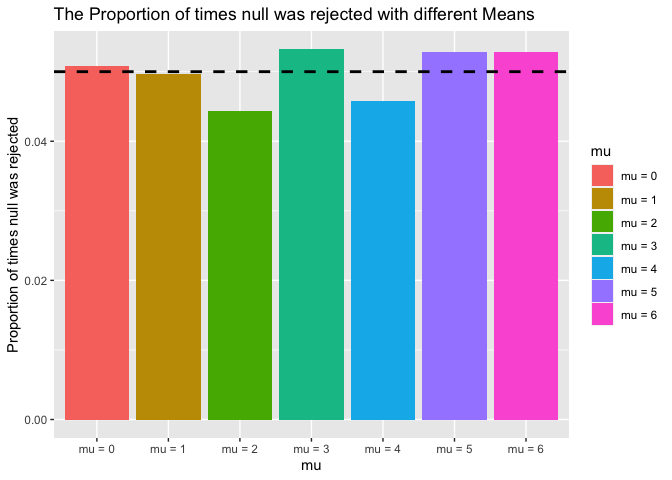
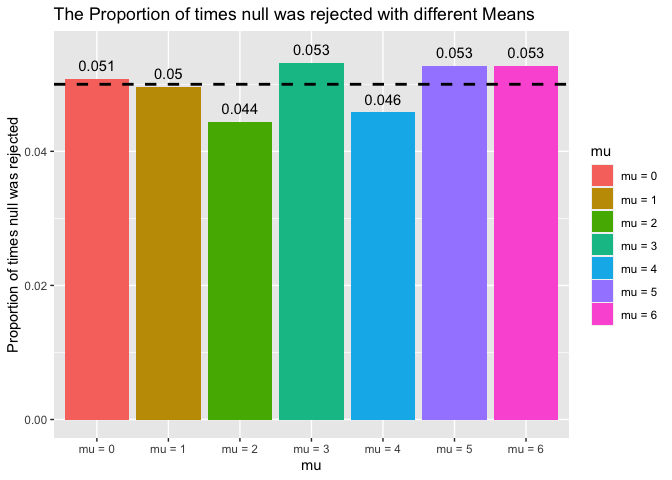
commenting code for question 3

diff --git a/p8105_hw5_ajp2257.md b/p8105_hw5_ajp2257.md
@@ -150,17 +150,18 @@ axis. Describe the association between effect size and power.
 
 ``` r
 sim_results %>% 
-   mutate(
+   mutate( # updating the mu variable to have it plot in a nice way 
     mu = str_c("mu = ", mu),
     mu = fct_inorder(mu),
-    reject_status = ifelse(p.value > alpha, 0, 1) # reject null = 1
+    reject_status = ifelse(p.value > alpha, 0, 1) # reject null = 1 based on alpha 
     ) %>% 
-  group_by(mu) %>%
+  group_by(mu) %>% # group by mu to count how many times we reject based on alpha 
   count(reject_status) %>%
-  filter(reject_status == 1) %>% 
-   ggplot(aes(x = mu, y = n/5000)) + 
+  filter(reject_status == 1) %>% # filter just the reject null (when = 1)
+   ggplot(aes(x = mu, y = n/5000)) + # I am dividing by 5000 to get the proportion 
     geom_col(aes(fill=mu)) +
     geom_hline(yintercept=0.05, linetype="dashed", size=1) +
+    geom_text(aes(label=round(n/5000, 3)), position = position_nudge(y = 0.002)) + 
     labs(
       title = "The Proportion of times null was rejected with different Means",
       y = "Proportion of times null was rejected"
@@ -170,50 +171,61 @@ sim_results %>%
 ![](p8105_hw5_ajp2257_files/figure-gfm/unnamed-chunk-5-1.png)<!-- -->
 
 Make a plot showing the average estimate of \(\hat{\mu}\) on the y axis
-and the true value of μ on the x axis.
+and the true value of μ on the x axis. Make a second plot (or overlay on
+the first) the average estimate of \(\hat{\mu}\)  on the y axis and the
+true value of \(\mu\) on the x axis.
 
 ``` r
-sim_results %>% 
-   mutate(
-    mu = str_c("mu = ", mu),
+# average estimates against the true mu value graph 
+mean_values = sim_results %>% 
+   mutate( # Changing the mu variable to make it better to graph 
+    mu = str_c("mu = ", mu), 
     mu = fct_inorder(mu),
     ) %>% 
-  group_by(mu) %>%
-  summarize(mean_est = mean(estimate)) %>%
+  group_by(mu) %>% # want to group the means by the mu values 
+  summarize(mean_est = mean(estimate)) %>% # getting the mean 
+    # now we are plotting 
     ggplot(aes(x = mu, y = mean_est)) + 
-    geom_point(aes(color=mu)) +
+    geom_point(aes(color=mu), size=4) +
+    geom_text(aes(label=round(mean_est, 3)), position = position_nudge(y = 0.4)) + 
     labs(
-      title = "Mean Estimates compared to true Mu",
-      y = "Mean of the Estimates"
-    )
+      title = "Estimates vs Truth",
+      y = "Mean of the Estimates",
+      x = "True Mu"
+    ) + 
+   theme(legend.position = "none")
 ```
 
     ## `summarise()` ungrouping output (override with `.groups` argument)
 
-![](p8105_hw5_ajp2257_files/figure-gfm/unnamed-chunk-6-1.png)<!-- -->
-
-Make a second plot (or overlay on the first) the average estimate of
-\(\hat{\mu}\)  on the y axis and the true value of \(\mu\) on the x
-axis.
-
 ``` r
-sim_results %>% 
-   mutate(
+# just looking at the estimates for the times were rejected the null against the true mu
+resticted_means = sim_results %>% 
+   mutate( # Changing the mu variable to make it better to graph 
     mu = str_c("mu = ", mu),
     mu = fct_inorder(mu),
-    reject_status = ifelse(p.value > alpha, 0, 1) # reject null = 1
+    reject_status = ifelse(p.value > alpha, 0, 1) # reject null = 1 based on alpha 
     ) %>% 
-  group_by(mu, reject_status) %>%
-  summarize(mean_est = mean(estimate)) %>%
+  group_by(mu, reject_status) %>% # grouping by mu and the reject_status 
+  summarize(mean_est = mean(estimate)) %>% # sumarizing the results 
   filter(reject_status == 1) %>%
+    # plotting the results 
     ggplot(aes(x = mu, y = mean_est)) +
-    geom_point(aes(color=mu)) +
+    geom_point(aes(color=mu), size=4) +
+    geom_text(aes(label=round(mean_est, 3)), position = position_nudge(y = 0.4)) + 
     labs(
-      title = "Mean Estimates compared to true Mu of only the rejections",
-      y = "Mean of the Estimates"
-    )
+      title = "Estimates vs Truth of only the rejections",
+      y = "Mean of the Estimates",
+      x = "True Mu"
+    ) +
+   theme(legend.position = "none")
 ```
 
     ## `summarise()` regrouping output by 'mu' (override with `.groups` argument)
 
-![](p8105_hw5_ajp2257_files/figure-gfm/unnamed-chunk-7-1.png)<!-- -->
+``` r
+# plotting them together 
+mean_values + resticted_means
+```
+
+![](p8105_hw5_ajp2257_files/figure-gfm/unnamed-chunk-6-1.png)<!-- -->
